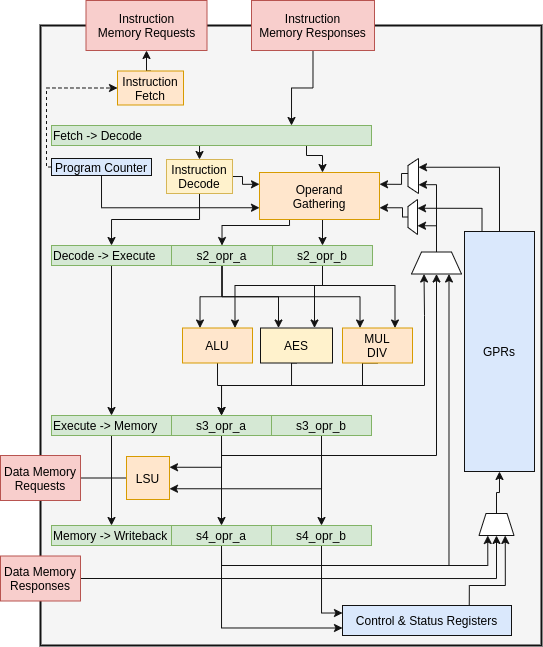
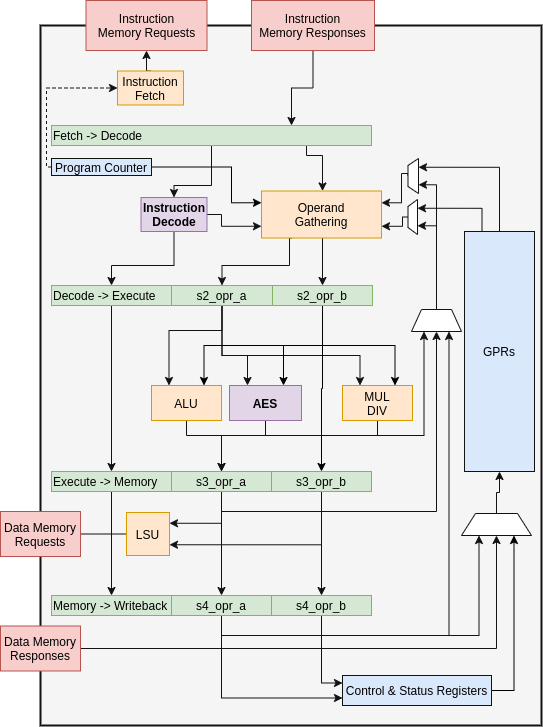
paper: diagrams and pseudocode
- Add WIP datapath diagrams for V1,v2,v3,v5.
- Re-write pseudo code for conciseness

 On branch master
 Your branch is up-to-date with 'origin/master'.

 Changes to be committed:
	new file:   doc/diagrams/ise-datapaths.drawio
	new file:   doc/diagrams/ise-datapaths.png
	modified:   doc/diagrams/scarv-cpu-uarch.drawio
	modified:   doc/diagrams/scarv-cpu-uarch.png
	modified:   doc/tex/design-core.tex
	modified:   doc/tex/design_v1.tex
	modified:   doc/tex/design_v2.tex
	modified:   doc/tex/design_v3.tex
	modified:   doc/tex/design_v5.tex

 Changes not staged for commit:
	modified:   extern/riscv-gnu-toolchain (modified content)
	modified:   extern/riscv-isa-sim (modified content)

diff --git a/doc/tex/design_v5.tex b/doc/tex/design_v5.tex
@@ -9,43 +9,29 @@
 \subsubsection{ISE implementation}
 
 \begin{lstlisting}[language=pseudo,style=block]
-saes.v5.srsub(rs1, rs2, enc, hi):
-    if(enc):
-        tmp.8[0] = rs2.8[2] if hi else rs1.8[2]
-        tmp.8[1] = rs2.8[1] if hi else rs1.8[0]
-        tmp.8[2] = rs2.8[0] if hi else rs1.8[1]
-        tmp.8[3] = rs1.8[3] if hi else rs2.8[3]
-        tmp.8[i] =    AESSBox[tmp.8[i]] for i=0..3
-    else:
-        tmp.8[0] = rs2.8[2] if hi else rs1.8[2]
-        tmp.8[1] = rs1.8[1] if hi else rs1.8[0]
-        tmp.8[2] = rs2.8[0] if hi else rs2.8[1]
-        tmp.8[3] = rs2.8[3] if hi else rs1.8[3]
-        tmp.8[i] = InvAESSBox[tmp.8[i]] for i=0..3
-    if(hi):
-        rd.32    = {tmp.8[2],tmp.8[3],tmp.8[0],tmp.8[1]}
-    else:
-        rd.32    = {tmp.8[1],tmp.8[3],tmp.8[0],tmp.8[2]}
+saes.v5.srsub(rs1, rs2, fwd, hi):
+  if(fwd):
+    if hi: tmp.32 = {rs1.8[3], rs2.8[0], rs2.8[1], rs2.8[2]}
+    else : tmp.32 = {rs2.8[3], rs1.8[1], rs1.8[0], rs1.8[2]}
+    tmp.8[i]      =    AESSBox[tmp.8[i]] for i=0..3
+  else:
+    if hi: tmp.32 = {rs2.8[3], rs2.8[0], rs1.8[1], rs2.8[2]}
+    else : tmp.32 = {rs1.8[3], rs2.8[1], rs1.8[0], rs1.8[2]}
+    tmp.8[i]      = InvAESSBox[tmp.8[i]] for i=0..3
+  if(hi): rd.32 = {tmp.8[2],tmp.8[3],tmp.8[0],tmp.8[1]}
+  else  : rd.32 = {tmp.8[1],tmp.8[3],tmp.8[0],tmp.8[2]}
 
 saes.v5.sub(rs1):
-    rd.8[i] = AESSBox[rs1.8[i]] for i = 0..3
+  rd.8[i] = AESSBox[rs1.8[i]] for i = 0..3
 
-saes.v5.mix(rs1, rs2, enc):
-    col0.8[3] = rs1.8[2];    col1.8[3] = rs1.8[0]
-    col0.8[2] = rs1.8[3];    col1.8[2] = rs1.8[1]
-    col0.8[1] = rs2.8[2];    col1.8[1] = rs2.8[0]
-    col0.8[0] = rs2.8[3];    col1.8[0] = rs2.8[1]
-    if(enc):
-        n0 =    AESMixColumn(       col0   )
-        n1 =    AESMixColumn(ROTL32(col0,8))
-        n2 =    AESMixColumn(       col1   )
-        n3 =    AESMixColumn(ROTL32(col1,8))
-    else:
-        n0 = InvAESMixColumn(       col0   )
-        n1 = InvAESMixColumn(ROTL32(col0,8))
-        n2 = InvAESMixColumn(       col1   )
-        n3 = InvAESMixColumn(ROTL32(col1,8))
-    rd.32 = {n2, n3, n0, n1}
+saes.v5.mix(rs1, rs2, fwd):
+  col0.32 = {rs1.8[2], rs1.8[3], rs2.8[2], rs2.8[3]}
+  col1.32 = {rs1.8[0], rs1.8[1], rs2.8[0], rs2.8[1]}
+  n0.8    = MixColumn(       col0   , fwd)
+  n1.8    = MixColumn(ROTL32(col0,8), fwd)
+  n2.8    = MixColumn(       col1   , fwd)
+  n3.8    = MixColumn(ROTL32(col1,8), fwd)
+  rd.32 = {n2, n3, n0, n1}
 \end{lstlisting}
 
 % TODO: micro-architecture diagram

diff --git a/doc/tex/design-core.tex b/doc/tex/design-core.tex
@@ -23,11 +23,33 @@ elements of the
 RISC-V Privileged Resource Architecture (PRA)~\cite[Chapter 3]{RV:ISA:II:17}
 related to exception and interrupt handling.
 
-%TODO Explain datpath modifications and parameterisation of variants.
+To support the AES ISE variants, two modifications were made to the core:
+1) The Instruction Decode module was modifed to support identification and
+   operand selection for the new instructions. 
+2) A new ``AES" functional unit (AES FU) was added in the execute stage to
+   perform the instruction computations.
+Because all of the variants read at most two,
+and write one general purpose register, no new structural datapaths
+were needed.
+
+All of the AES variants share the same sets of inputs, so the interface
+to the AES FU is kept constant for every variant.
+A synthesis time parameter was then added to switch between different
+ISE variants.
+The following sections describe each ISE variant using pseudo-code, and
+give a simplified datapath diagram for the AES FU internals.
 
 \begin{figure}
 \centering
 \includegraphics[scale=0.5,angle=90]{diagrams/scarv-cpu-uarch.png}
 \subcaption{Core $2$: \CORE{2}.}
 \label{fig:design:cpu_block:2}
+\end{figure}
+
+% TODO move or split into pieces.
+\begin{figure}
+\centering
+\includegraphics[scale=0.5]{diagrams/ise-datapaths.png}
+\subcaption{Datapath diagrams for the four 32-bit ISE variants.}
+\label{fig:design:fu_block:2}
 \end{figure}

diff --git a/doc/tex/design_v3.tex b/doc/tex/design_v3.tex
@@ -9,29 +9,12 @@
 \subsubsection{ISE implementation}
 
 \begin{lstlisting}[language=pseudo,style=block]
-saes.v3.encs(rs1, rs2, bs):                 // SubBytes Only
-    t0.8  = rs1.8[bs]
-    x.8   = AESSBox(t0)
-    u.32  = {0, 0, 0, x}
-    rd.32 = ROTL32(u, 8*bs) ^ rs2.32
-
-saes.v3.encsm(rs1, rs2, bs):                // SubBytes & MixColumns
-    t0.8  = rs1.8[bs]
-    x.8   = AESSBox(t0)
-    u.32  = {GFMUL(x,3) , x, x, GFMUL(x,2)}
-    rd.32 = ROTL32(u, 8*bs) ^ rs2.32
-
-saes.v3.decs(rs1, rs2, bs):                 // InvSubBytes Only
-    t0.8  = rs1.8[bs]
-    x.8   = InvAESSBox(t0)
-    u.32  = {0, 0, 0, x}
-    rd.32 = ROTL32(u, 8*bs) ^ rs2.32
-
-saes.v3.decsm(rs1, rs2, bs):                // InvSubBytes & InvMixColumns
-    t0.8  = rs1.8[bs]
-    x.8   = InvAESSBox(t0)
-    u.32  = {GFMUL(x,11),GFMUL(x,13),GFMUL(9),GFMUL(14)}
-    rd.32 = ROTL32(u, 8*bs) ^ rs2.32
+saes.v3(rs1, rs2, bs, fwd, mix):
+  x     = SubByte(rs2.8[bs], fwd)
+  if   mix and  fwd: t1.32 = {GFMUL(x, 3),      x    ,      x   ,GFMUL(x, 2)}
+  elif mix and !fwd: t1.32 = {GFMUL(x,11),GFMUL(x,13),GFMUL(x,9),GFMUL(x,14)}
+  else             : t1.32 = {0, 0, 0, x}
+  rd.32 = ROTL32(t1.32, 8*bs) ^ rs1
 \end{lstlisting}
 
 % TODO: micro-architecture diagram

diff --git a/doc/tex/design_v2.tex b/doc/tex/design_v2.tex
@@ -9,22 +9,13 @@
 \subsubsection{ISE implementation}
 
 \begin{lstlisting}[language=pseudo,style=block]
-saes.v2.sub(rs1, rs2, mode):
-    if(mode == enc)
-        t0 =    AESSBox(rs1.8[0]), t1 =    AESSBox(rs2.8[1])
-        t2 =    AESSBox(rs1.8[2]), t3 =    AESSBox(rs2.8[3])
-    else
-        t0 = InvAESSBox(rs1.8[0]), t1 = InvAESSBox(rs2.8[1])
-        t2 = InvAESSBox(rs1.8[2]), t3 = InvAESSBox(rs2.8[3])
-    rd.32 = {t3, t2, t1, t0} 
+saes.v2.SubBytes(rs1, rs2, fwd):
+  t1.32  = {rs1.8[0], rs2.8[1], rs1.8[2], rs2.8[3]}
+  rd.8[i]= SubBytes(t1.8[i], fwd)            for i=0..3
 
-saes.v2.mix(rs1, rs2, mode):
-    t0 = rs1.8[0], t1 = rs1.8[1]
-    t2 = rs2.8[2], t3 = rs2.8[3]
-    if(mode == enc)
-        rd.32 =    AESMixColumns(t3,t2,t1,t0)
-    else
-        rd.32 = InvAESMixColumns(t3,t2,t1,t0)
+saes.v2.MixColumns(rs1, rs2, fwd):
+  t1.32  = {rs1.8[0], rs1.8[1], rs2.8[2], rs2.8[3]}
+  rd.8[i]= MixColumn(ROTL32(rs1.32, 8*i), fwd) for i=0..3
 \end{lstlisting}
 
 % TODO: micro-architecture diagram

diff --git a/doc/tex/design_v1.tex b/doc/tex/design_v1.tex
@@ -9,17 +9,11 @@
 \subsubsection{ISE implementation}
 
 \begin{lstlisting}[language=pseudo,style=block]
-saes.v1.encs(rs1):
-    rd.8[i] =    SBox(rs1.8[i]) for i=0..3
+saes.v1.SubBytes(rs1, fwd):
+  rd.8[i] = SubBytes(rs1.8[i], fwd) for i=0..3
 
-saes.v1.decs(rs1):
-    rd.8[i] = InvSBox(rs1.8[i]) for i=0..3
-
-saes.v1.encm(rs1):
-    rd.8[i] =    MixColumn(ROTL(rs1.32, 8*i))) for i=0..3
-
-saes.v1.decm(rs1):
-    rd.8[i] = InvMixColumn(ROTL(rs1.32, 8*i))) for i=0..3
+saes.v1.MixColumns(rs1, fwd):
+  rd.8[i] = MixColumn(ROTL32(rs1.32, 8*i)), fwd) for i=0..3
 \end{lstlisting}
 
 % TODO: micro-architecture diagram
